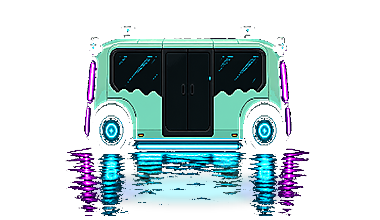
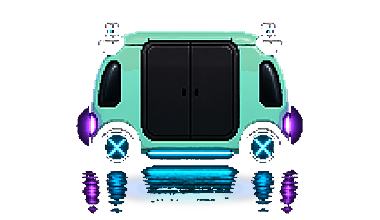
Rebuild Zoox as a compact arcade pod
New shorter plate (aspect ~1.18) with end windows and a big center door,
plus tighter in-game X scale so it no longer reads as a stretched limo.

diff --git a/src/objects/Zoox.js b/src/objects/Zoox.js
@@ -25,13 +25,13 @@ export class Zoox extends Phaser.Physics.Arcade.Sprite {
     // Origin on the tire / wet-reflection contact line.
     this.setOrigin(0.5, 0.84);
     this.setDepth(30);
-    // Shorter silhouette: compress X a touch more than Y.
-    this.setScale(0.68, 0.8);
+    // Compact pod scale — shorter X, a bit more height for presence.
+    this.setScale(0.58, 0.84);
     this.setCollideWorldBounds(false);
 
     // Body-only hitbox — exclude baked wet reflection padding.
-    this.body.setSize(this.width * 0.52, this.height * 0.34);
-    this.body.setOffset(this.width * 0.24, this.height * 0.20);
+    this.body.setSize(this.width * 0.54, this.height * 0.36);
+    this.body.setOffset(this.width * 0.23, this.height * 0.18);
 
     if (scene.anims.exists('zoox-drive')) {
       this.play('zoox-drive');
@@ -40,13 +40,13 @@ export class Zoox extends Phaser.Physics.Arcade.Sprite {
     // Contact shadow under the tires.
     this.shadow = scene.add.image(this.x, this.baseY + 6, ASSET_KEYS.SHADOW)
       .setDepth(27)
-      .setScale(1.85, 0.75)
+      .setScale(1.35, 0.7)
       .setAlpha(0.35);
 
     // Soft ADD underglow pulse on top of the baked wet reflection.
     this.underglow = scene.add.image(this.x, this.baseY + 4, ASSET_KEYS.UNDERGLOW)
       .setDepth(28)
-      .setScale(1.05, 0.85)
+      .setScale(0.78, 0.8)
       .setAlpha(0.45)
       .setBlendMode(Phaser.BlendModes.ADD);
 
@@ -61,17 +61,17 @@ export class Zoox extends Phaser.Physics.Arcade.Sprite {
     });
 
     // Front cyan spill / rear magenta spill (bidirectional robotaxi cues).
-    this.headlight = scene.add.image(this.x + 70, this.y - 28, ASSET_KEYS.HEADLIGHT)
+    this.headlight = scene.add.image(this.x + 58, this.y - 30, ASSET_KEYS.HEADLIGHT)
       .setOrigin(0, 0.5)
       .setDepth(29)
-      .setScale(0.5)
-      .setAlpha(0.28)
+      .setScale(0.42)
+      .setAlpha(0.26)
       .setBlendMode(Phaser.BlendModes.ADD);
 
-    this.taillight = scene.add.image(this.x - 66, this.y - 28, ASSET_KEYS.TAILLIGHT)
+    this.taillight = scene.add.image(this.x - 54, this.y - 30, ASSET_KEYS.TAILLIGHT)
       .setDepth(29)
-      .setScale(0.65)
-      .setAlpha(0.3)
+      .setScale(0.55)
+      .setAlpha(0.28)
       .setTint(0xff45d2)
       .setBlendMode(Phaser.BlendModes.ADD);
 
@@ -85,8 +85,8 @@ export class Zoox extends Phaser.Physics.Arcade.Sprite {
     }
     this.shadow.setPosition(this.x + 2, this.baseY + 6);
     this.underglow?.setPosition(this.x, this.baseY + 4);
-    this.headlight.setPosition(this.x + 70, this.y - 28);
-    this.taillight.setPosition(this.x - 66, this.y - 28);
+    this.headlight.setPosition(this.x + 58, this.y - 30);
+    this.taillight.setPosition(this.x - 54, this.y - 30);
   }
 
   /**
@@ -114,8 +114,8 @@ export class Zoox extends Phaser.Physics.Arcade.Sprite {
       onUpdate: () => {
         this.shadow.setPosition(this.x + 2, this.y + 6);
         this.underglow?.setPosition(this.x, this.y + 4);
-        this.headlight.setPosition(this.x + 70, this.y - 28);
-        this.taillight.setPosition(this.x - 66, this.y - 28);
+        this.headlight.setPosition(this.x + 58, this.y - 30);
+        this.taillight.setPosition(this.x - 54, this.y - 30);
       },
       onComplete: () => {
         this.changingLane = false;

diff --git a/scripts/art/make_zoox_robotaxi.py b/scripts/art/make_zoox_robotaxi.py
@@ -102,11 +102,11 @@ def fit_car(img: Image.Image) -> Image.Image:
         min(img.height, y1 + pad),
     ))
     cw, ch = CANVAS
-    # Shorter arcade silhouette (source plates are too stretched vs traffic).
-    target_aspect = 1.32  # width / height
-    scale_h = (ch - 28) / crop.height
+    # Compact arcade pod — keep it stubby vs traffic / lane width.
+    target_aspect = 1.18  # width / height
+    scale_h = (ch - 24) / crop.height
     nh = int(crop.height * scale_h)
-    nw = min(int(nh * target_aspect), cw - 40)
+    nw = min(int(nh * target_aspect), cw - 80)
     car = crop.resize((nw, nh), Image.Resampling.LANCZOS)
     return car.filter(ImageFilter.UnsharpMask(radius=1.0, percent=130, threshold=2))
 
@@ -119,12 +119,12 @@ def compose(car: Image.Image, glow_boost: float = 1.0) -> Image.Image:
     cx = cw // 2
     cy = y + int(car.height * 0.86)
     glow = Image.new("RGBA", (cw, ch), (0, 0, 0, 0))
-    # Keep glow pools under the shortened body (avoid wide bbox stretch).
+    # Tight glow under the compact pod (must not re-widen the silhouette).
     for rx, ry, col, blur, ox in (
-        (100, 14, (0, 230, 255, int(55 * glow_boost)), 4, 0),
-        (68, 8, (160, 250, 255, int(40 * glow_boost)), 2.2, 0),
-        (28, 11, (220, 70, 255, int(38 * glow_boost)), 3.0, -72),
-        (28, 11, (220, 70, 255, int(38 * glow_boost)), 3.0, 72),
+        (78, 13, (0, 230, 255, int(55 * glow_boost)), 3.5, 0),
+        (52, 7, (160, 250, 255, int(40 * glow_boost)), 2.0, 0),
+        (22, 10, (220, 70, 255, int(36 * glow_boost)), 2.8, -52),
+        (22, 10, (220, 70, 255, int(36 * glow_boost)), 2.8, 52),
     ):
         layer = Image.new("RGBA", (cw, ch), (0, 0, 0, 0))
         ImageDraw.Draw(layer).ellipse([cx - rx + ox, cy - ry, cx + rx + ox, cy + ry], fill=col)
